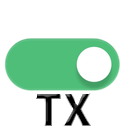
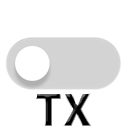
default state
default state on momemntary to open. Flopped image for tx on/off

diff --git a/index.php b/index.php
@@ -55,7 +55,7 @@
   $MOMENTARY = 1;
   $CLOSED = 0;
   $OPEN = 1;
-  $val_array = array($CLOSED,$CLOSED,$CLOSED,$CLOSED,$CLOSED,$CLOSED,$CLOSED,$CLOSED);
+  $val_array = array($CLOSED,$CLOSED,$OPEN,$OPEN,$OPEN,$OPEN,$OPEN,$OPEN);
 	$type_array = array($TOGGLE, $TOGGLE, $MOMENTARY,$MOMENTARY,$MOMENTARY,$MOMENTARY,$MOMENTARY,$MOMENTARY);
 	//this php script generate the first page in function of the file
   echo( "<h1>".$settings["title"]."</h1>");
